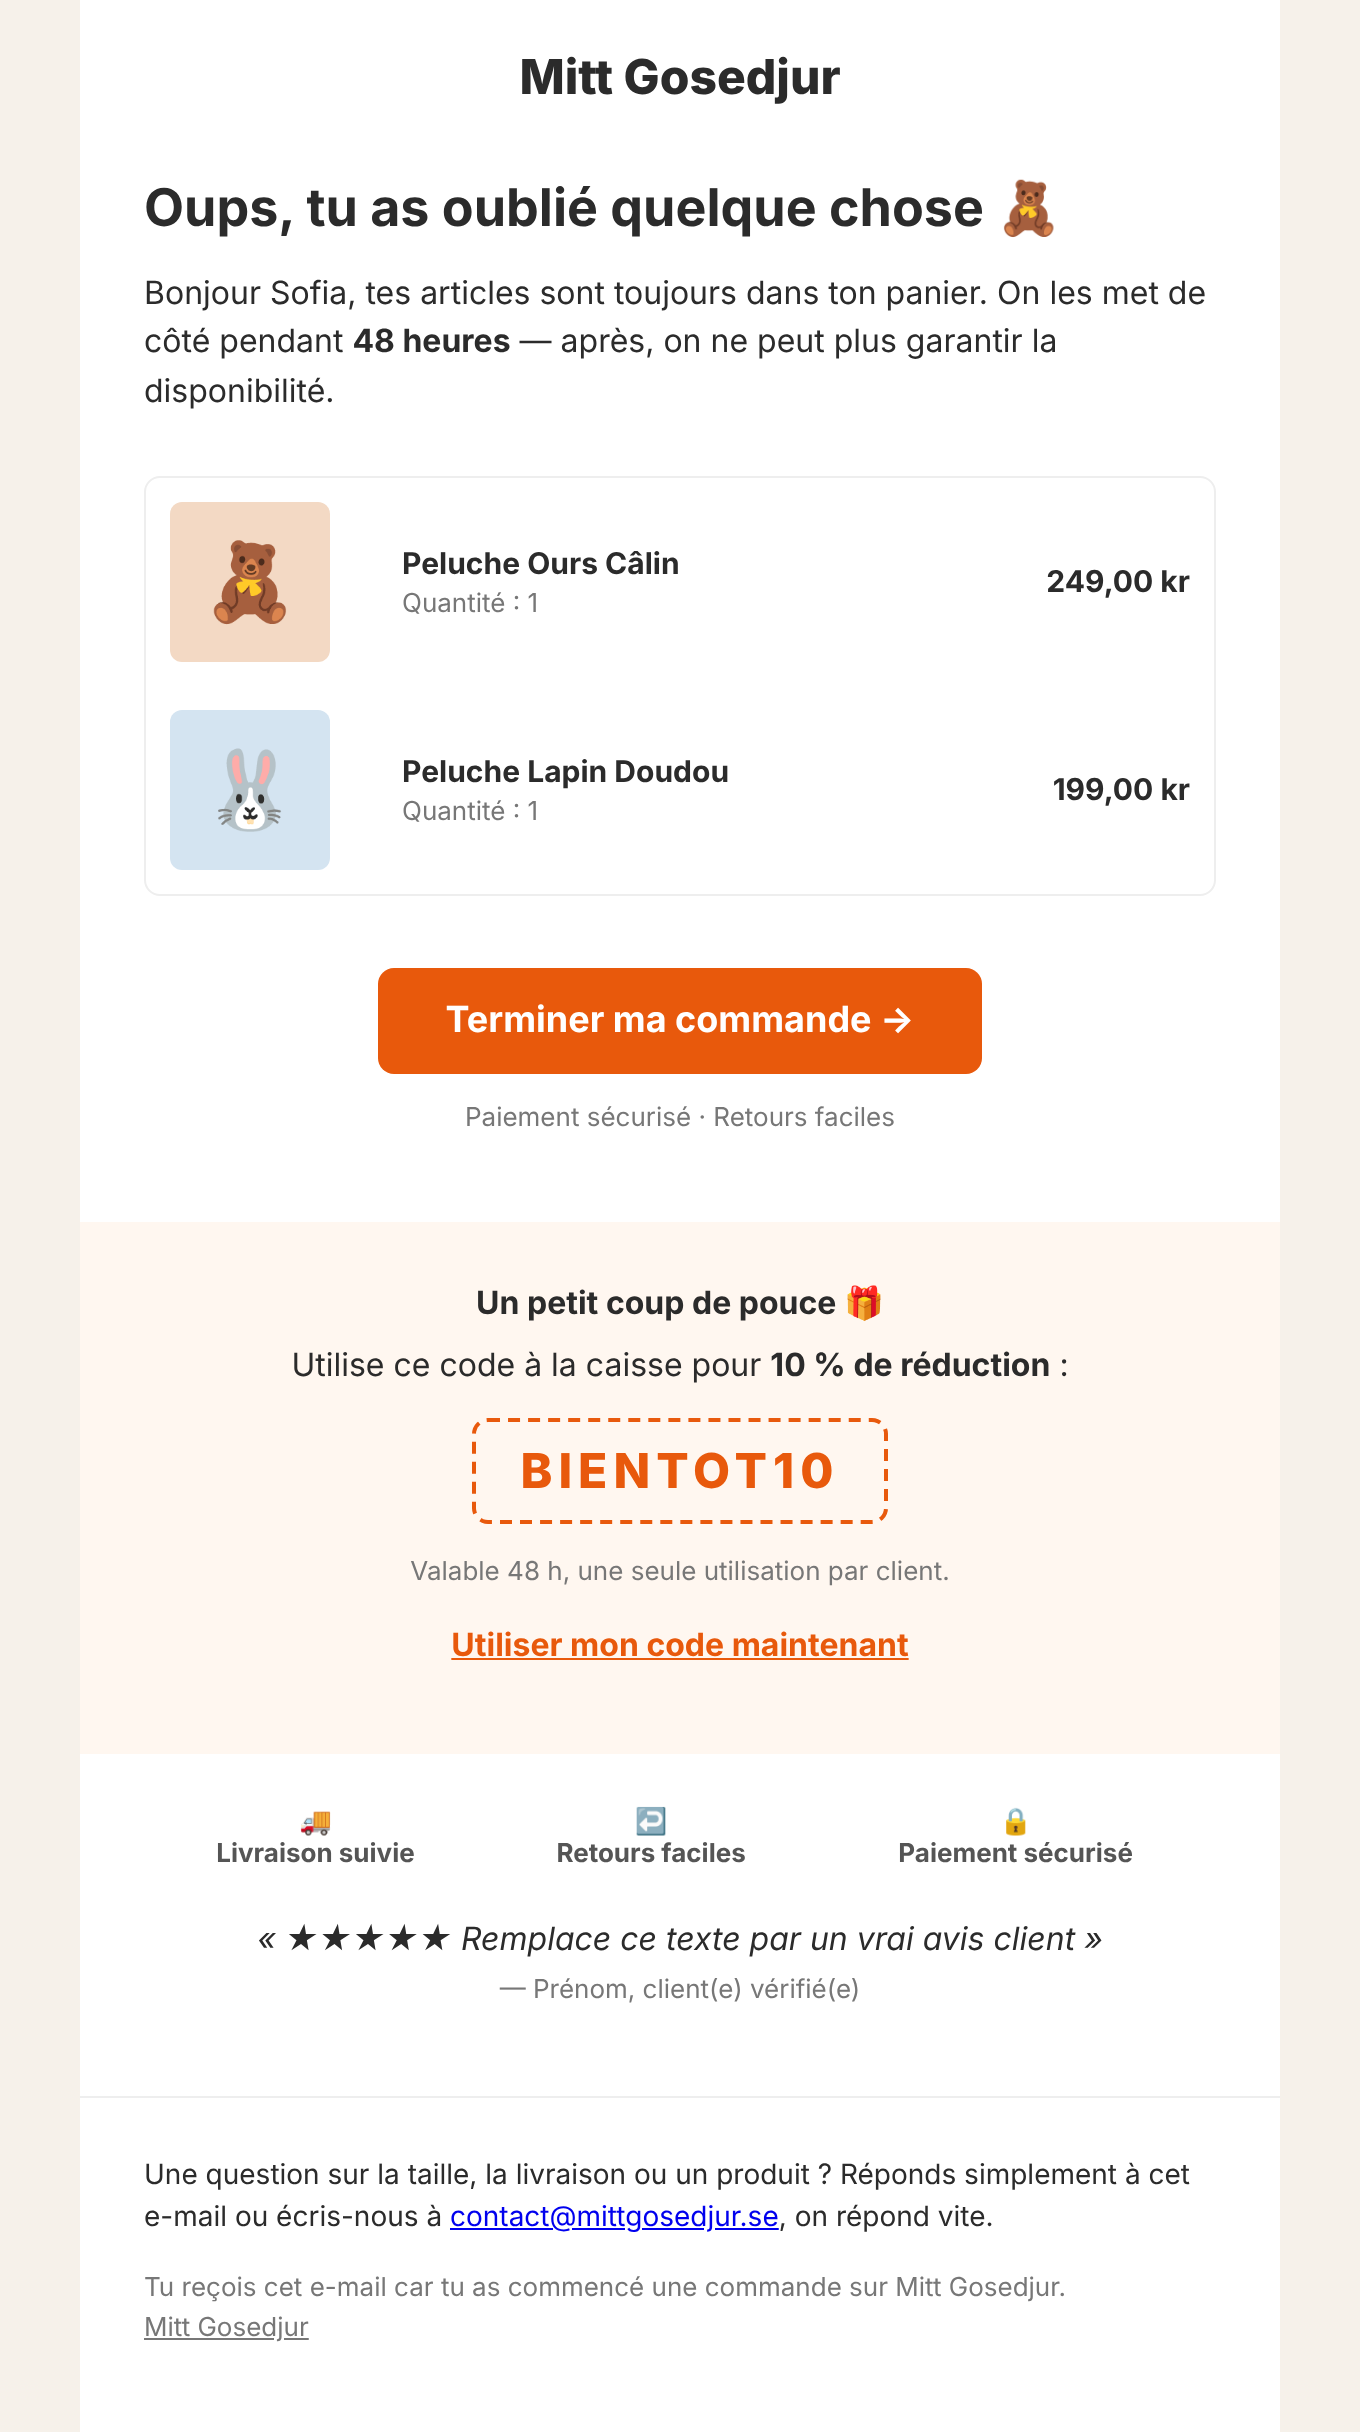
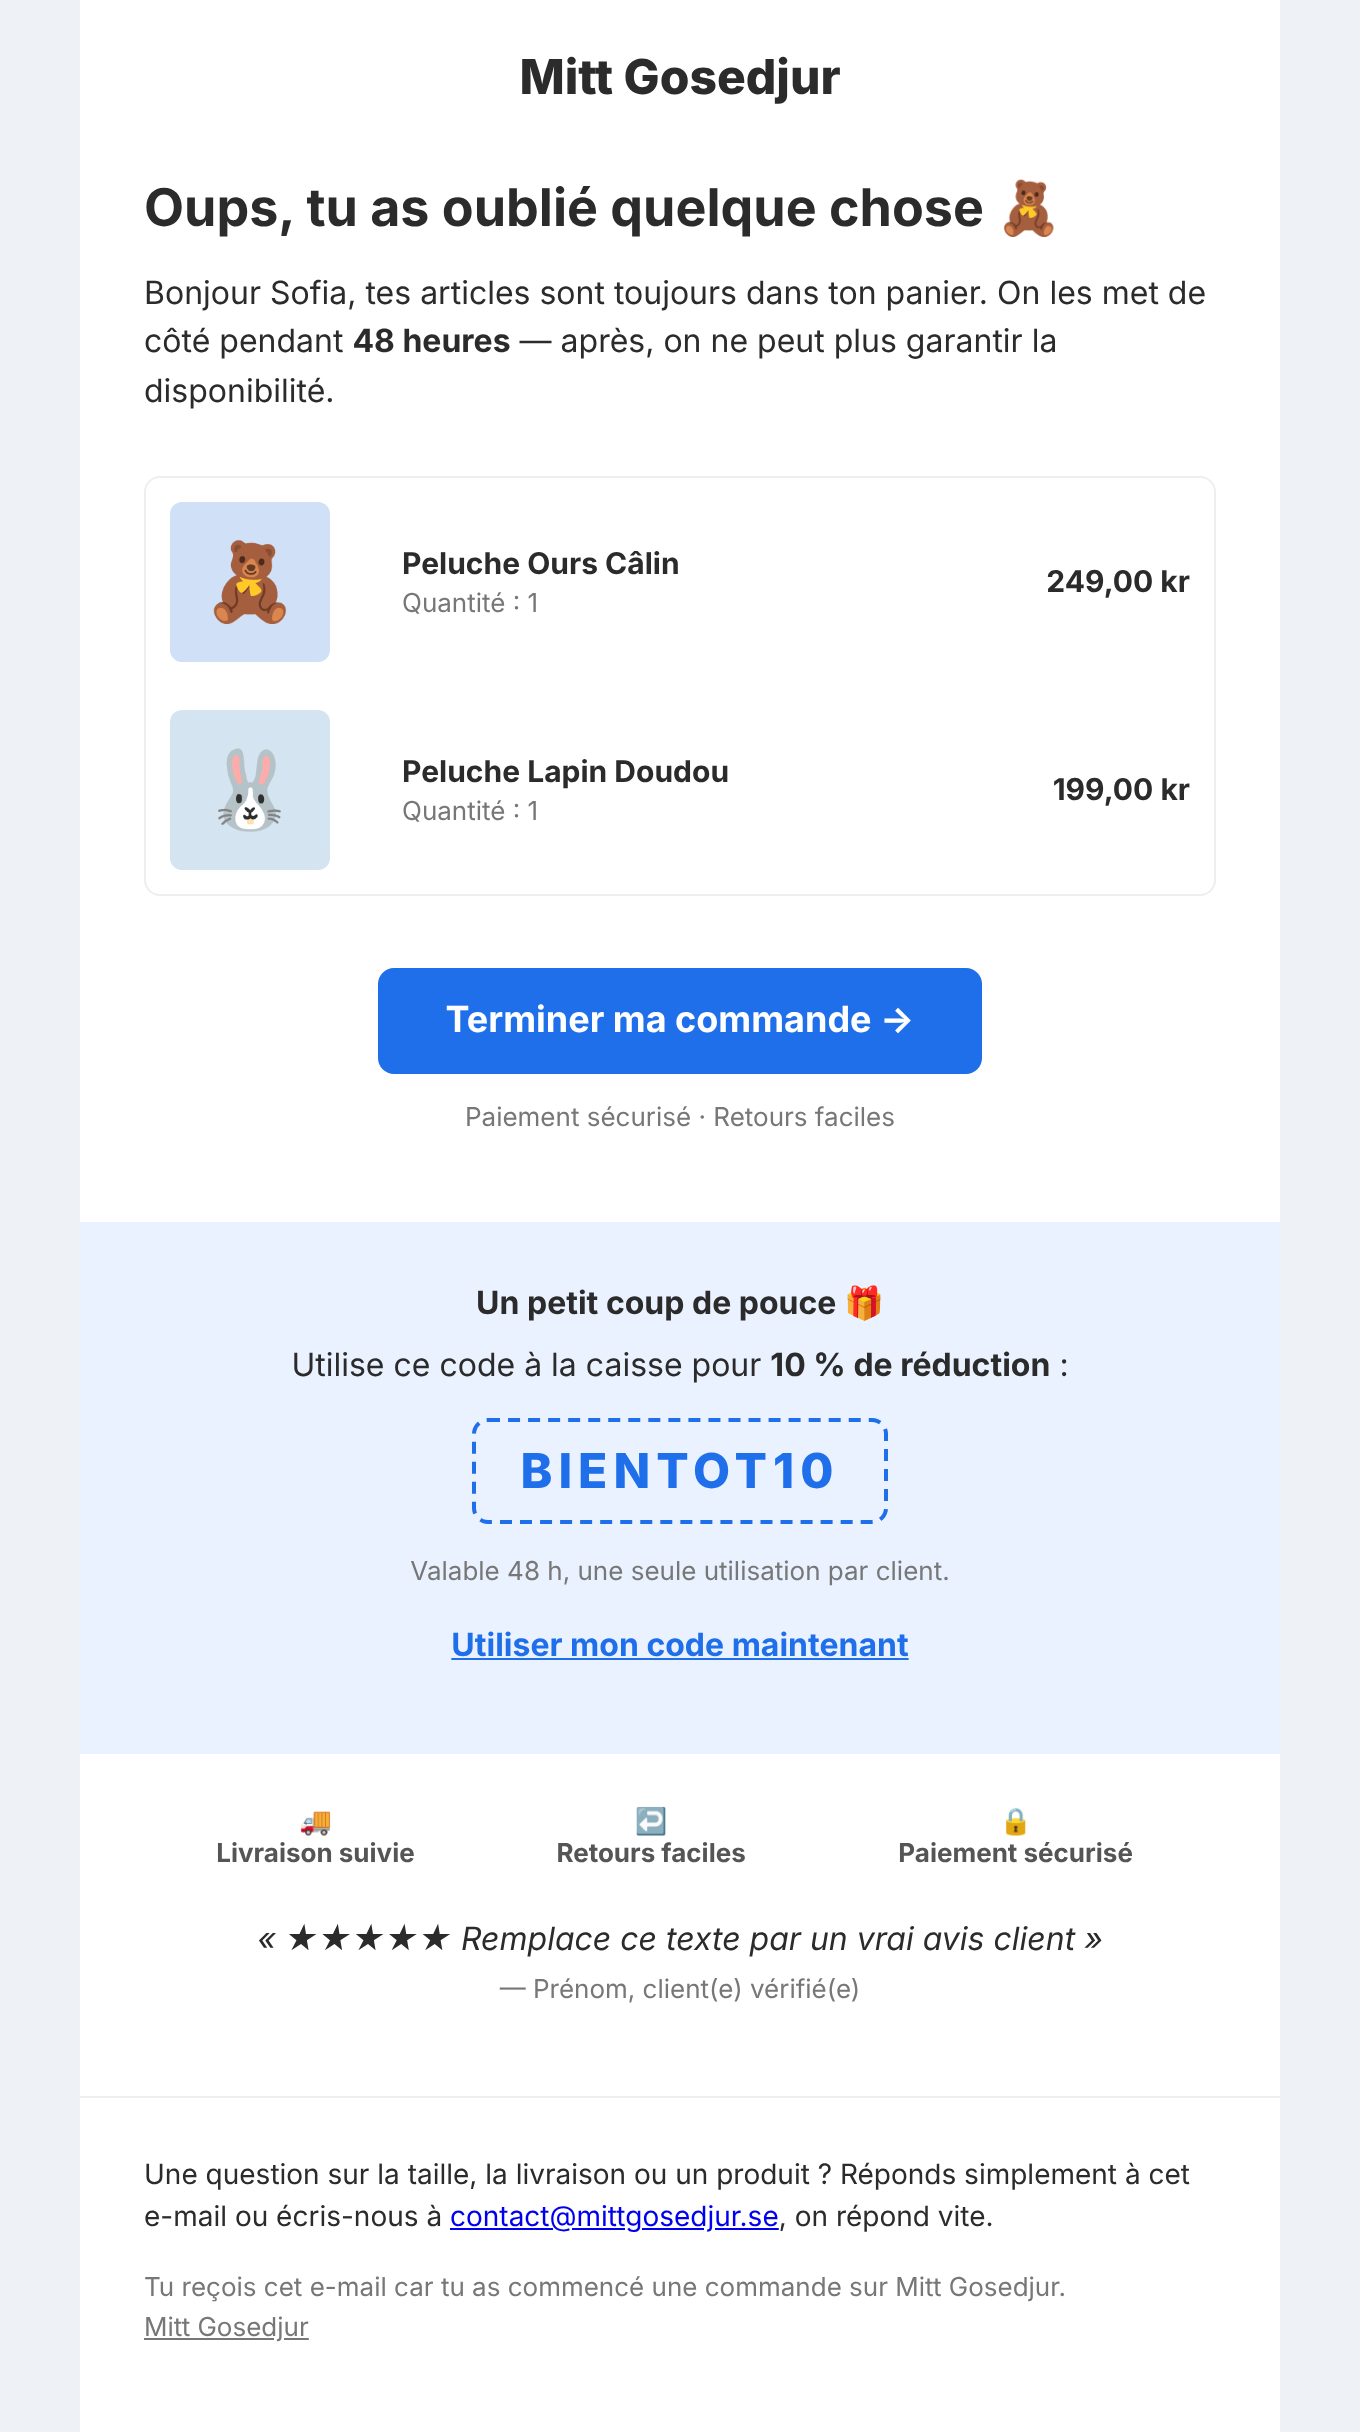
Switch abandoned cart email to blue theme
Claude-Session: https://claude.ai/code/session_01HfyfPAEQChKa6J2FzJoi8b

diff --git a/email-panier-abandonne.html b/email-panier-abandonne.html
@@ -11,13 +11,13 @@
   <meta name="viewport" content="width=device-width, initial-scale=1">
   <title>Ton panier t'attend</title>
   <style>
-    body { margin:0; padding:0; background:#f6f1ea; font-family:-apple-system,'Segoe UI',Helvetica,Arial,sans-serif; color:#2b2b2b; }
+    body { margin:0; padding:0; background:#eef2f7; font-family:-apple-system,'Segoe UI',Helvetica,Arial,sans-serif; color:#2b2b2b; }
     .wrap { max-width:600px; margin:0 auto; background:#ffffff; }
     .pad { padding:28px 32px; }
     h1 { font-size:26px; line-height:1.25; margin:0 0 12px; }
     p { font-size:16px; line-height:1.55; margin:0 0 14px; }
-    .btn { display:inline-block; background:#e8590c; color:#ffffff !important; text-decoration:none; font-weight:700; font-size:18px; padding:16px 34px; border-radius:8px; }
-    .code { display:inline-block; border:2px dashed #e8590c; background:#fff7f0; color:#e8590c; font-size:24px; font-weight:800; letter-spacing:3px; padding:10px 22px; border-radius:8px; }
+    .btn { display:inline-block; background:#1f6feb; color:#ffffff !important; text-decoration:none; font-weight:700; font-size:18px; padding:16px 34px; border-radius:8px; }
+    .code { display:inline-block; border:2px dashed #1f6feb; background:#eaf2ff; color:#1f6feb; font-size:24px; font-weight:800; letter-spacing:3px; padding:10px 22px; border-radius:8px; }
     .muted { color:#777; font-size:13px; }
     .trust td { font-size:13px; text-align:center; padding:6px 4px; color:#555; }
     @media (max-width:480px) { .pad { padding:22px 18px; } h1 { font-size:22px; } .btn { display:block; text-align:center; } }
@@ -70,12 +70,12 @@
     </td></tr>
 
     <!-- Offre -10 % -->
-    <tr><td align="center" class="pad" style="background:#fff7f0;">
+    <tr><td align="center" class="pad" style="background:#eaf2ff;">
       <p style="margin-bottom:6px;"><strong>Un petit coup de pouce 🎁</strong></p>
       <p style="margin-bottom:14px;">Utilise ce code à la caisse pour <strong>10 % de réduction</strong> :</p>
       <span class="code">BIENTOT10</span>
       <p class="muted" style="margin-top:14px;">Valable 48 h, une seule utilisation par client.</p>
-      <p style="margin-top:6px;"><a href="{{ url }}" style="color:#e8590c;font-weight:700;">Utiliser mon code maintenant</a></p>
+      <p style="margin-top:6px;"><a href="{{ url }}" style="color:#1f6feb;font-weight:700;">Utiliser mon code maintenant</a></p>
     </td></tr>
 
     <!-- Réassurance -->
